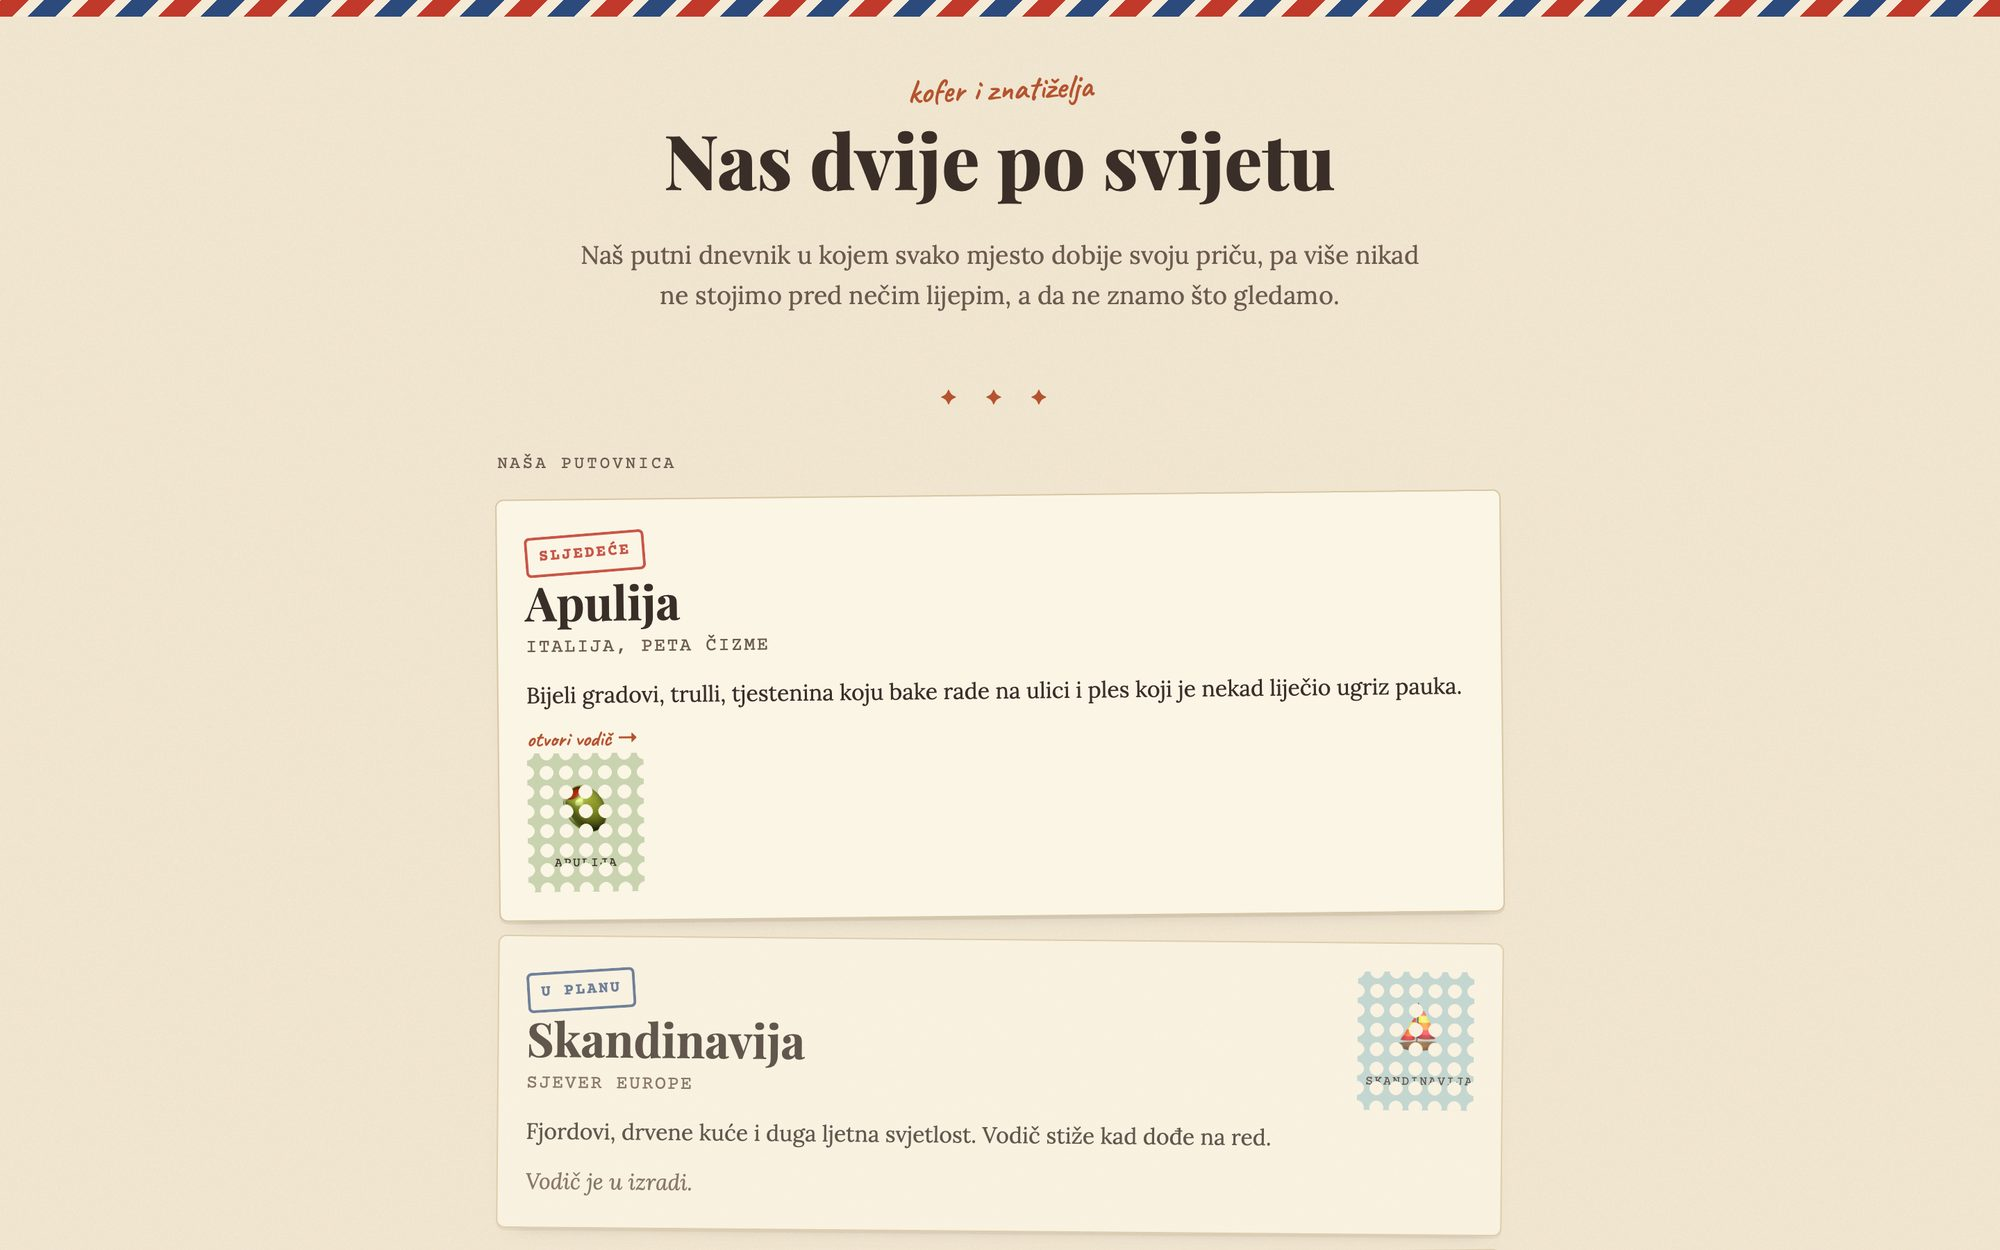
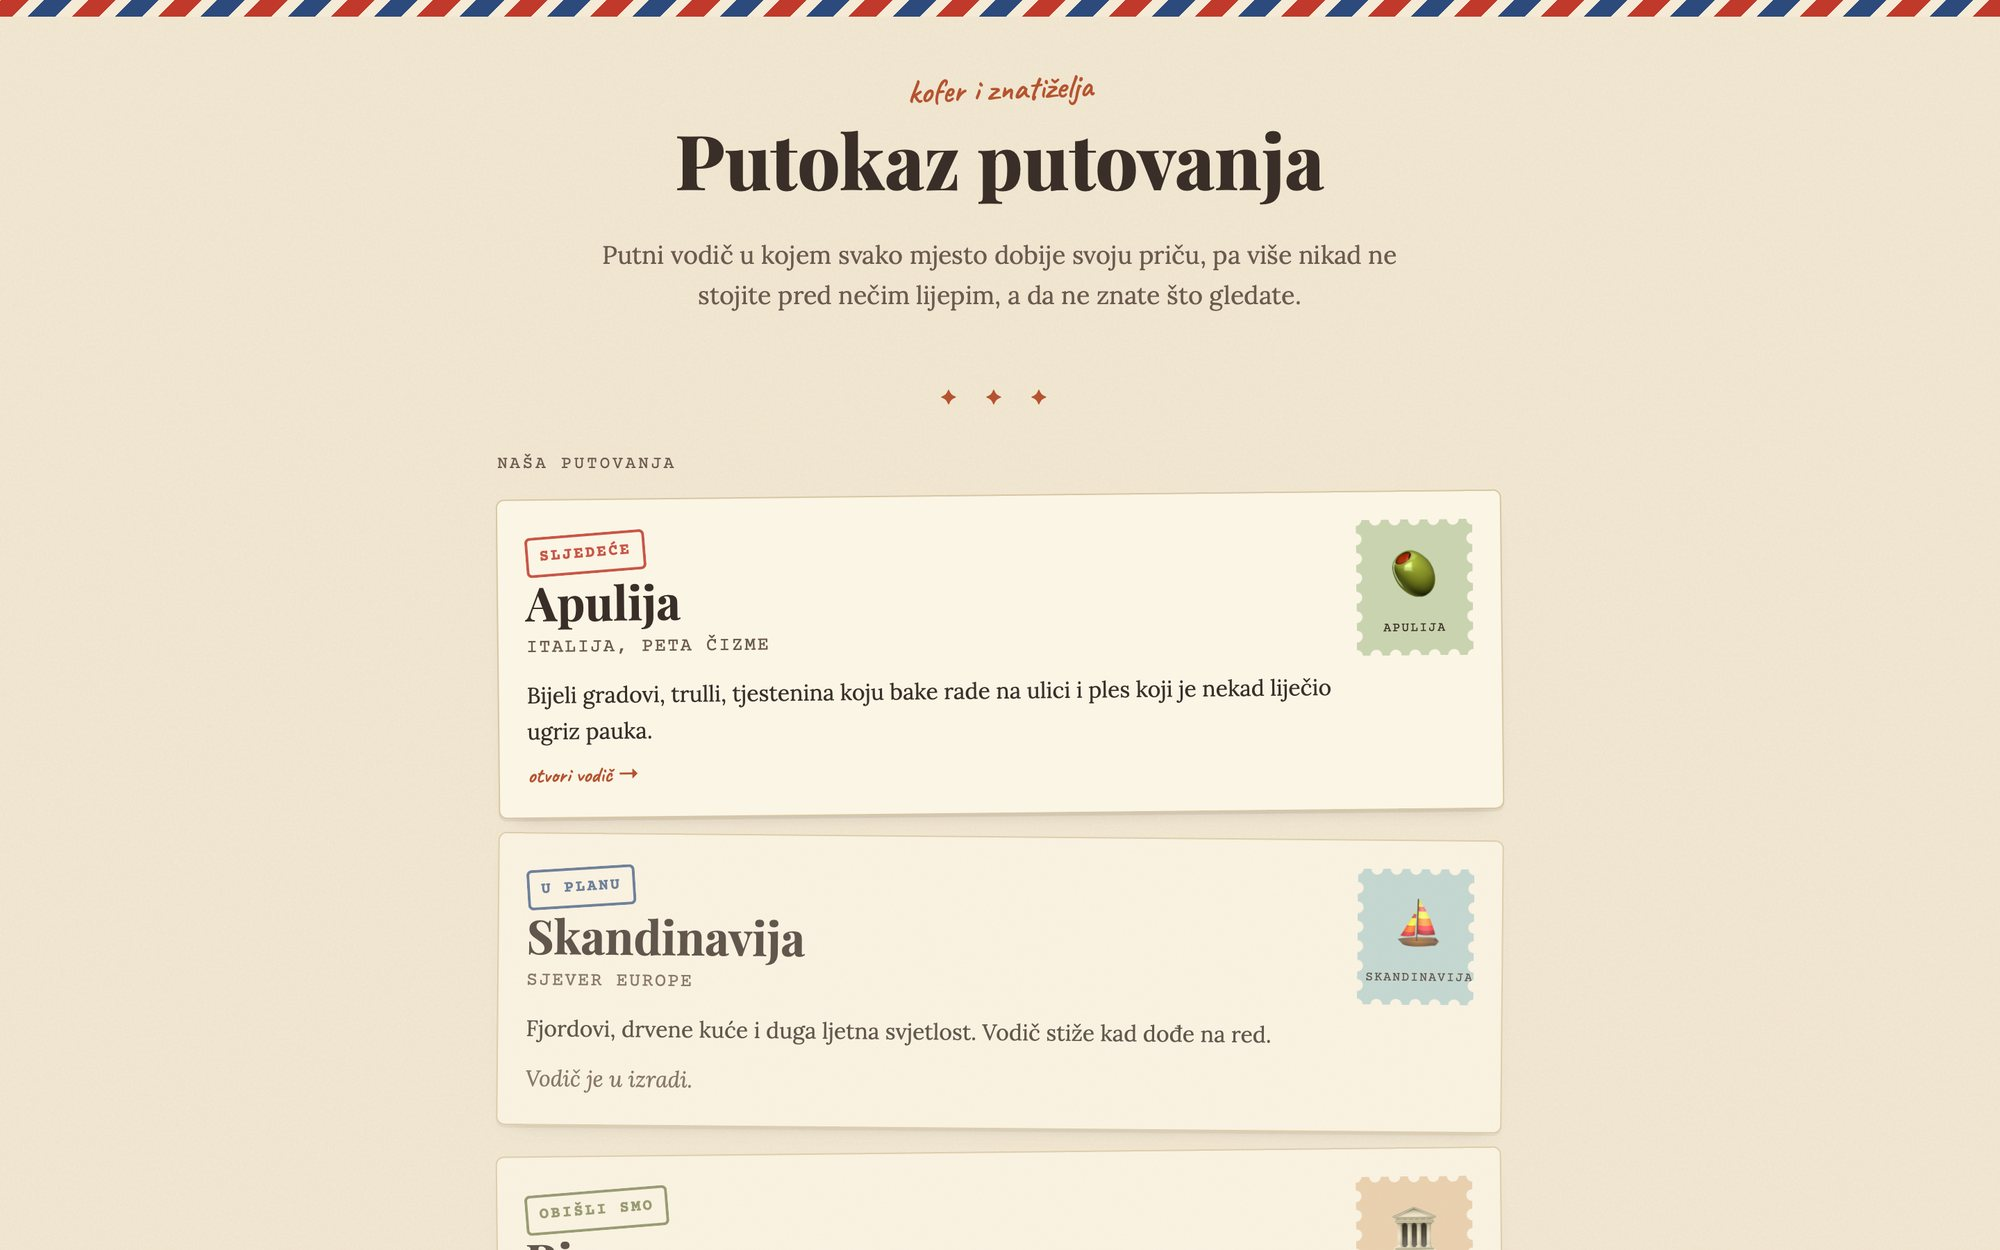
New Orbita after, believable café before, impersonal travel before, no visit links

diff --git a/index.html b/index.html
@@ -161,16 +161,16 @@
     </div>
     <div class="work" aria-label="My work">
       <div class="tabs project-tabs" role="tablist" aria-label="Projects">
-        <button type="button" role="tab" aria-selected="true" data-old="img/orbita-old.jpg" data-new="img/orbita-new.jpg" data-href="" data-type="p1.type"><span class="tab-num">01</span><span class="tab-name">Orbita prijevodi</span></button>
-        <button type="button" role="tab" aria-selected="false" data-old="img/cafe-before.jpg" data-new="img/cafe-photo-desktop.jpg" data-href="" data-type="p2.type"><span class="tab-num">02</span><span class="tab-name">More Café &amp; Brunch</span></button>
+        <button type="button" role="tab" aria-selected="true" data-old="img/orbita-old.jpg" data-new="img/orbita-new.jpg?v=2" data-href="" data-type="p1.type"><span class="tab-num">01</span><span class="tab-name">Orbita prijevodi</span></button>
+        <button type="button" role="tab" aria-selected="false" data-old="img/cafe-before.jpg?v=2" data-new="img/cafe-photo-desktop.jpg" data-href="" data-type="p2.type"><span class="tab-num">02</span><span class="tab-name">More Café &amp; Brunch</span></button>
         <button type="button" role="tab" aria-selected="false" data-old="img/abroad-first.jpg" data-new="img/abroad-now.jpg" data-href="" data-type="p3.type"><span class="tab-num">03</span><span class="tab-name">Abroad Life with Anja</span></button>
         <button type="button" role="tab" aria-selected="false" data-old="img/natural-before.jpg" data-new="img/natural-after.jpg" data-href="" data-type="p4.type"><span class="tab-num">04</span><span class="tab-name">Prirodno s Anjom</span></button>
-        <button type="button" role="tab" aria-selected="false" data-old="img/taste-before.jpg?v=2" data-new="img/taste-after.jpg?v=2" data-href="" data-type="p5.type"><span class="tab-num">05</span><span class="tab-name">Taste the Map</span></button>
+        <button type="button" role="tab" aria-selected="false" data-old="img/taste-before.jpg?v=3" data-new="img/taste-after.jpg?v=2" data-href="" data-type="p5.type"><span class="tab-num">05</span><span class="tab-name">Taste the Map</span></button>
         <button type="button" role="tab" aria-selected="false" data-old="img/calendar-before.jpg" data-new="img/calendar-after.jpg?v=2" data-href="" data-type="p6.type"><span class="tab-num">06</span><span class="tab-name" data-i18n="p6.name">Zajednički kalendar</span></button>
       </div>
 
       <div class="compare" style="--pos:50%">
-        <img class="compare-new" src="img/orbita-new.jpg" width="2000" height="1250" alt="Web stranica poslije" data-i18n-alt="ba.altNew">
+        <img class="compare-new" src="img/orbita-new.jpg?v=2" width="2000" height="1250" alt="Web stranica poslije" data-i18n-alt="ba.altNew">
         <div class="compare-old">
           <img src="img/orbita-old.jpg" width="2000" height="1250" alt="Web stranica prije" data-i18n-alt="ba.altOld">
         </div>
@@ -184,8 +184,8 @@
         <span id="ba-type" data-i18n="p1.type">Prevoditeljska agencija</span>
         <span aria-hidden="true">·</span>
         <span data-i18n="ba.drag">Povucite za usporedbu</span>
-        <span id="ba-visit-dot" aria-hidden="true">·</span>
-        <a id="ba-visit" href="https://anjagregoran.github.io/orbita-prijevodi/" target="_blank" rel="noopener" data-i18n="ba.visit">Posjetite stranicu</a>
+        <span id="ba-visit-dot" aria-hidden="true" hidden>·</span>
+        <a id="ba-visit" hidden href="#" target="_blank" rel="noopener" data-i18n="ba.visit">Posjetite stranicu</a>
       </p>
     </div>
   </section>
